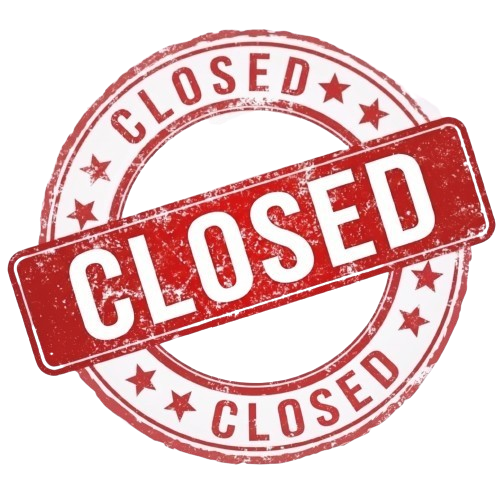
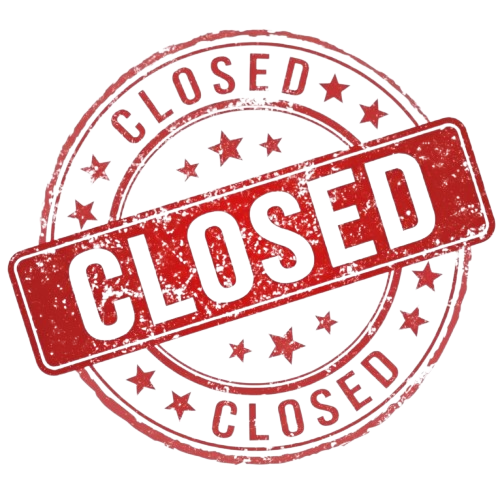
feat: use closed-stamp1 and update project ROI to varied 25,x% - 35,y% ranges

diff --git a/investor-dashboard.html b/investor-dashboard.html
@@ -3993,7 +3993,7 @@
           contract_number: isAllocated ? ((port && port.contract_number) || `MGI/INV/2026/${pObj.id.toUpperCase()}-BP`) : '-',
           status: isAllocated ? (pObj.status || 'Active') : 'Belum Aktif',
           tenor: (pObj.info && pObj.info.tenor) || '12 Bulan',
-          return_rate: (pObj.info && pObj.info.return) || '≥30% (p.a.)',
+          return_rate: (pObj.info && pObj.info.return) || '25,9% – 35,3%',
           payout: (pObj.info && pObj.info.payout) || 'Tutup Buku Laporan Tahunan',
           funding_target: targetFunding,
           funding_collected: collectedFunding
@@ -4049,13 +4049,13 @@
             realisasi_diterima: isAllocated ? Number(port.payout_received || 0) : 0,
             estimasi_kuartal_berikutnya: isAllocated ? Math.round(cap * 0.08) : 0,
             jadwal_berikutnya: isAllocated ? '15 Oktober 2026' : '-',
-            target_roi_tahunan: (pObj.info && pObj.info.return) || '≥30% (p.a.)'
+            target_roi_tahunan: (pObj.info && pObj.info.return) || '25,9% – 35,3%'
           },
           dividen: {
             realisasi_diterima: isAllocated ? Number(port.payout_received || 0) : 0,
             estimasi_kuartal_berikutnya: isAllocated ? Math.round(cap * 0.08) : 0,
             jadwal_berikutnya: isAllocated ? '15 Oktober 2026' : '-',
-            target_roi_tahunan: (pObj.info && pObj.info.return) || '≥30% (p.a.)'
+            target_roi_tahunan: (pObj.info && pObj.info.return) || '25,9% – 35,3%'
           }
         },
         rab_executive: rab,
@@ -5740,7 +5740,7 @@
           : `<span class="inline-flex items-center gap-1.5 px-3 py-1 rounded-full text-[11px] font-black bg-blue-600 text-white shadow-sm"><span class="w-2 h-2 rounded-full bg-white animate-ping"></span> Terbuka (${pct}%)</span>`;
 
         const assetBadge = info.brand || info.asset_backed || 'Unit Alat Berat Siap Operasi';
-        const returnText = info.return || '20,0% – 25,0%';
+        const returnText = info.return || '25,9% – 35,3%';
         const tenorText = (info.tenor || '12 Bulan').replace(/\s*\(Target\s*2[–\-]3x\s*Putaran\/Tahun\)/gi, '').trim();
         const minInvText = info.min_investment || p.min_investment || (tierOne?.nominal ? formatRupiahExact(tierOne.nominal) : (targetVal > 0 ? formatRupiahExact(targetVal) : 'Rp 15.000.000.000'));
         const catFundingRows = p.detail?.funding_target?.rows || p.funding_items || [];
@@ -5760,7 +5760,7 @@
               <div class="absolute inset-0 bg-gradient-to-t from-slate-950/85 via-slate-950/20 to-transparent"></div>
               ${isFullyFunded ? `
                 <div class="absolute top-1/2 left-1/2 -translate-x-1/2 -translate-y-1/2 pointer-events-none z-10">
-                  <img src="assets/img/closed-stamp.png" alt="Fully Funded / Ditutup" class="w-52 sm:w-60 max-w-[85%] drop-shadow-2xl" />
+                  <img src="assets/img/closed-stamp1.png" alt="Fully Funded / Ditutup" class="w-52 sm:w-60 max-w-[85%] drop-shadow-2xl" />
                 </div>
               ` : ''}
 
@@ -5893,7 +5893,7 @@
       const imgUrl = p.image || 'assets/img/1.png';
       const locText = info.lokasi || p.lokasi || p.city || 'Indonesia';
       const tenorText = (info.tenor || p.tenor || '12 Bulan').replace(/\s*\(Target\s*2[–\-]3x\s*Putaran\/Tahun\)/gi, '').trim();
-      const returnText = info.return || p.return_rate || '20,0% – 25,0%';
+      const returnText = info.return || p.return_rate || '25,9% – 35,3%';
 
       const modalOptions = p.package_options || (rab && (rab.package_options || rab.tiers)) || p.tiers || [];
       const modalMode = p.package_options_mode || (rab && rab.package_options_mode) || (modalOptions.length === 2 ? '2' : (modalOptions.length === 1 ? '1' : 'none'));
@@ -6067,7 +6067,7 @@
             <div class="absolute inset-0 bg-gradient-to-t from-slate-950 via-slate-950/30 to-transparent"></div>
             ${isFullyFunded ? `
               <div class="absolute top-1/2 left-1/2 -translate-x-1/2 -translate-y-1/2 pointer-events-none z-10">
-                <img src="assets/img/closed-stamp.png" alt="Fully Funded / Ditutup" class="w-60 sm:w-72 max-w-[88%] drop-shadow-2xl" />
+                <img src="assets/img/closed-stamp1.png" alt="Fully Funded / Ditutup" class="w-60 sm:w-72 max-w-[88%] drop-shadow-2xl" />
               </div>
             ` : ''}
             

diff --git a/invest-detail.html b/invest-detail.html
@@ -85,7 +85,7 @@
               onerror="this.onerror=null;this.src='assets/img/1.png';">
             <!-- Fully Funded / Closed Stamp Overlay -->
             <div id="detailClosedStamp" class="position-absolute top-50 start-50 translate-middle pointer-events-none" style="display: none; z-index: 4; pointer-events: none;">
-              <img src="assets/img/closed-stamp.png" alt="Fully Funded / Ditutup" style="width: 290px; max-width: 85%; filter: drop-shadow(0 8px 24px rgba(0,0,0,0.6)); transform: scale(1.15);">
+              <img src="assets/img/closed-stamp1.png" alt="Fully Funded / Ditutup" style="width: 290px; max-width: 85%; filter: drop-shadow(0 8px 24px rgba(0,0,0,0.6)); transform: scale(1.15);">
             </div>
             <div class="position-absolute bottom-0 end-0 m-3 px-3 py-1.5 rounded-pill bg-dark bg-opacity-75 text-white small d-flex align-items-center gap-1 shadow-sm" style="backdrop-filter: blur(4px); font-size: 0.78rem;">
               <i class="bi bi-arrows-fullscreen"></i>
@@ -403,7 +403,7 @@
       const mode = project.package_options_mode || (rab && rab.package_options_mode) || ((project.package_options && project.package_options.length === 2) || (rab && rab.tiers && rab.tiers.length === 2) ? '2' : ((project.package_options && project.package_options.length === 1) || (rab && rab.tiers && rab.tiers.length === 1) ? '1' : 'none'));
       const options = project.package_options || (rab && (rab.package_options || rab.tiers)) || project.tiers || [];
 
-      const rawReturn = (project.info && project.info.return) ? project.info.return.replace(/\s*\(p\.a\.\)/i, '').trim() : '28,6% – 42,9%';
+      const rawReturn = (project.info && project.info.return) ? project.info.return.replace(/\s*\(p\.a\.\)/i, '').trim() : '25,9% – 35,3%';
       const rawTenor = (project.info && project.info.tenor) ? project.info.tenor.replace(/\s*\(Target\s*2[–\-]3x\s*Putaran\/Tahun\)/gi, '').trim() : '12 Bulan';
 
       let headerOptionsPillHtml = '';
@@ -653,7 +653,7 @@
           <img id="modalPreviewImgSrc" src="" alt="Preview" class="img-fluid w-100 object-fit-contain" style="max-height: 80vh;">
           <!-- Stamp in Preview Modal -->
           <div id="modalPreviewClosedStamp" class="position-absolute top-50 start-50 translate-middle pointer-events-none" style="display: none; z-index: 5; pointer-events: none;">
-            <img src="assets/img/closed-stamp.png" alt="Fully Funded / Ditutup" style="width: 360px; max-width: 85vw; filter: drop-shadow(0 10px 30px rgba(0,0,0,0.65)); transform: scale(1.1);">
+            <img src="assets/img/closed-stamp1.png" alt="Fully Funded / Ditutup" style="width: 360px; max-width: 85vw; filter: drop-shadow(0 10px 30px rgba(0,0,0,0.65)); transform: scale(1.1);">
           </div>
         </div>
       </div>

diff --git a/index.html b/index.html
@@ -1337,7 +1337,7 @@
                     onerror="this.onerror=null;this.src='assets/img/1.png';">
                   ${(featured.status === 'Fully Funded' || String(featured.status || '').toLowerCase().includes('funded')) ? `
                     <div class="position-absolute top-50 start-50 translate-middle pointer-events-none" style="z-index: 4; pointer-events: none;">
-                      <img src="assets/img/closed-stamp.png" alt="Fully Funded / Ditutup" style="width: 210px; max-width: 80%; filter: drop-shadow(0 6px 18px rgba(0,0,0,0.55)); transform: scale(1.08);">
+                      <img src="assets/img/closed-stamp1.png" alt="Fully Funded / Ditutup" style="width: 210px; max-width: 80%; filter: drop-shadow(0 6px 18px rgba(0,0,0,0.55)); transform: scale(1.08);">
                     </div>
                   ` : ''}
                   <div class="position-absolute top-0 start-0 m-3">
@@ -1374,7 +1374,7 @@
                   <div class="row g-2 mb-3 text-center align-items-stretch">
                     <div class="col-4 d-flex">
                       <div class="p-2 border rounded-1 bg-white w-100 d-flex flex-column justify-content-center">
-                        <div class="fw-bold text-success fs-6 lh-1 mb-1">${(featured.info && featured.info.return) ? featured.info.return.replace(/\s*\(p\.a\.\)/i, '') : '28,6% – 42,9%'}</div>
+                        <div class="fw-bold text-success fs-6 lh-1 mb-1">${(featured.info && featured.info.return) ? featured.info.return.replace(/\s*\(p\.a\.\)/i, '') : '25,9% – 35,3%'}</div>
                         <div class="text-muted text-uppercase fw-semibold" style="font-size: 0.65rem;">Estimasi ROI</div>
                       </div>
                     </div>

diff --git a/assets/js/components.js b/assets/js/components.js
@@ -520,7 +520,7 @@ const MGIComponents = {
     if (!info) return '';
 
     // 1. Clean ROI Return
-    let rawRet = (info.return || '28,6% – 42,9%').replace(/\s*\(p\.a\.\)/i, '').trim();
+    let rawRet = (info.return || '25,9% – 35,3%').replace(/\s*\(p\.a\.\)/i, '').trim();
 
     // 2. Clean Tenor
     let rawTenor = info.tenor || '12 Bulan';
@@ -726,7 +726,7 @@ const MGIComponents = {
           <img src="${project.image || 'assets/img/1.png'}" alt="${project.title}" onerror="this.onerror=null;this.src='assets/img/1.png'">
           ${isFullyFunded ? `
             <div class="position-absolute top-50 start-50 translate-middle pointer-events-none" style="z-index: 4; pointer-events: none;">
-              <img src="assets/img/closed-stamp.png" alt="Fully Funded / Ditutup" style="width: 240px; max-width: 88%; filter: drop-shadow(0 6px 20px rgba(0,0,0,0.55)); transform: scale(1.15);">
+              <img src="assets/img/closed-stamp1.png" alt="Fully Funded / Ditutup" style="width: 240px; max-width: 88%; filter: drop-shadow(0 6px 20px rgba(0,0,0,0.55)); transform: scale(1.15);">
             </div>
           ` : ''}
           

diff --git a/mobile/lib/widget/project_card.dart b/mobile/lib/widget/project_card.dart
@@ -124,7 +124,7 @@ class ProjectCard extends StatelessWidget {
     final String raw = (project.info?.returnRate != null &&
             project.info!.returnRate!.trim().isNotEmpty)
         ? project.info!.returnRate!.trim()
-        : "30,9% – 46,3%";
+        : "25,9% – 35,3%";
     return raw
         .replaceAll(RegExp(r"\s*\(p\.a\.\)", caseSensitive: false), "")
         .trim();
@@ -258,7 +258,7 @@ class ProjectCard extends StatelessWidget {
             if ((project.status ?? "").toLowerCase().contains("funded"))
               Center(
                 child: Image.asset(
-                  "assets/image/closed-stamp.png",
+                  "assets/image/closed-stamp1.png",
                   width: Dimensions.size100 + Dimensions.size50,
                   fit: BoxFit.contain,
                 ),

diff --git a/mobile/lib/module/front/project_detail/project_detail_page.dart b/mobile/lib/module/front/project_detail/project_detail_page.dart
@@ -276,7 +276,7 @@ class ProjectDetailPageState extends State<ProjectDetailPage>
             Center(
               child: IgnorePointer(
                 child: Image.asset(
-                  "assets/image/closed-stamp.png",
+                  "assets/image/closed-stamp1.png",
                   width: Dimensions.size100 * 2,
                   fit: BoxFit.contain,
                 ),
